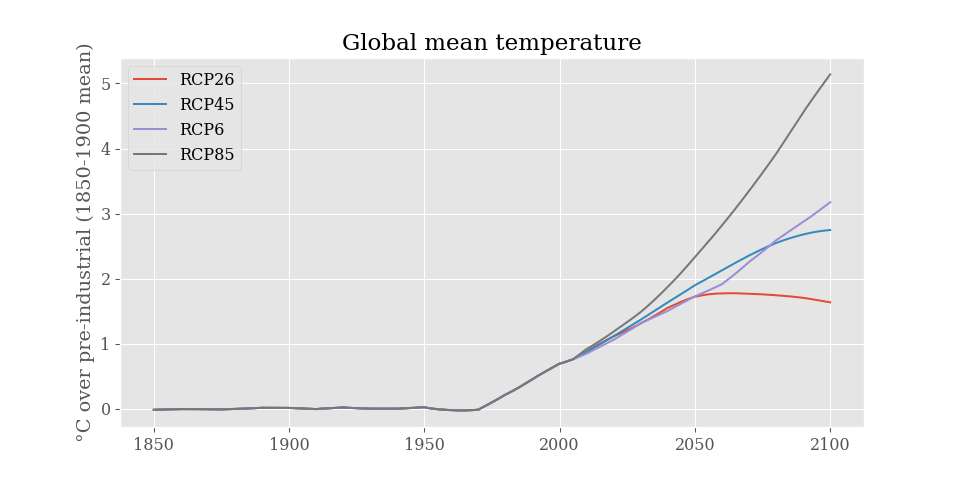
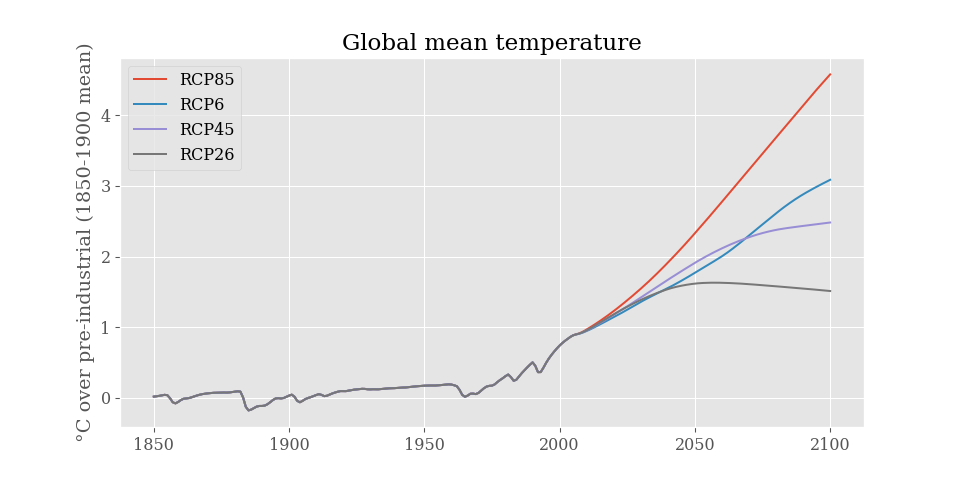
Invert plotting order

diff --git a/scripts/plot_example.py b/scripts/plot_example.py
@@ -12,7 +12,7 @@ from pyhector import rcp26, rcp45, rcp60, rcp85
 path = os.path.join(os.path.dirname(__file__),
                     '../docs/example-plot.png')
 
-for rcp in [rcp26, rcp45, rcp60, rcp85]:
+for rcp in [rcp85, rcp60, rcp45, rcp26]:
     output = pyhector.run(rcp, {"core": {"endDate": 2100}})
     temp = output["temperature.Tgav"]
     temp = temp.loc[1850:] - temp.loc[1850:1900].mean()
